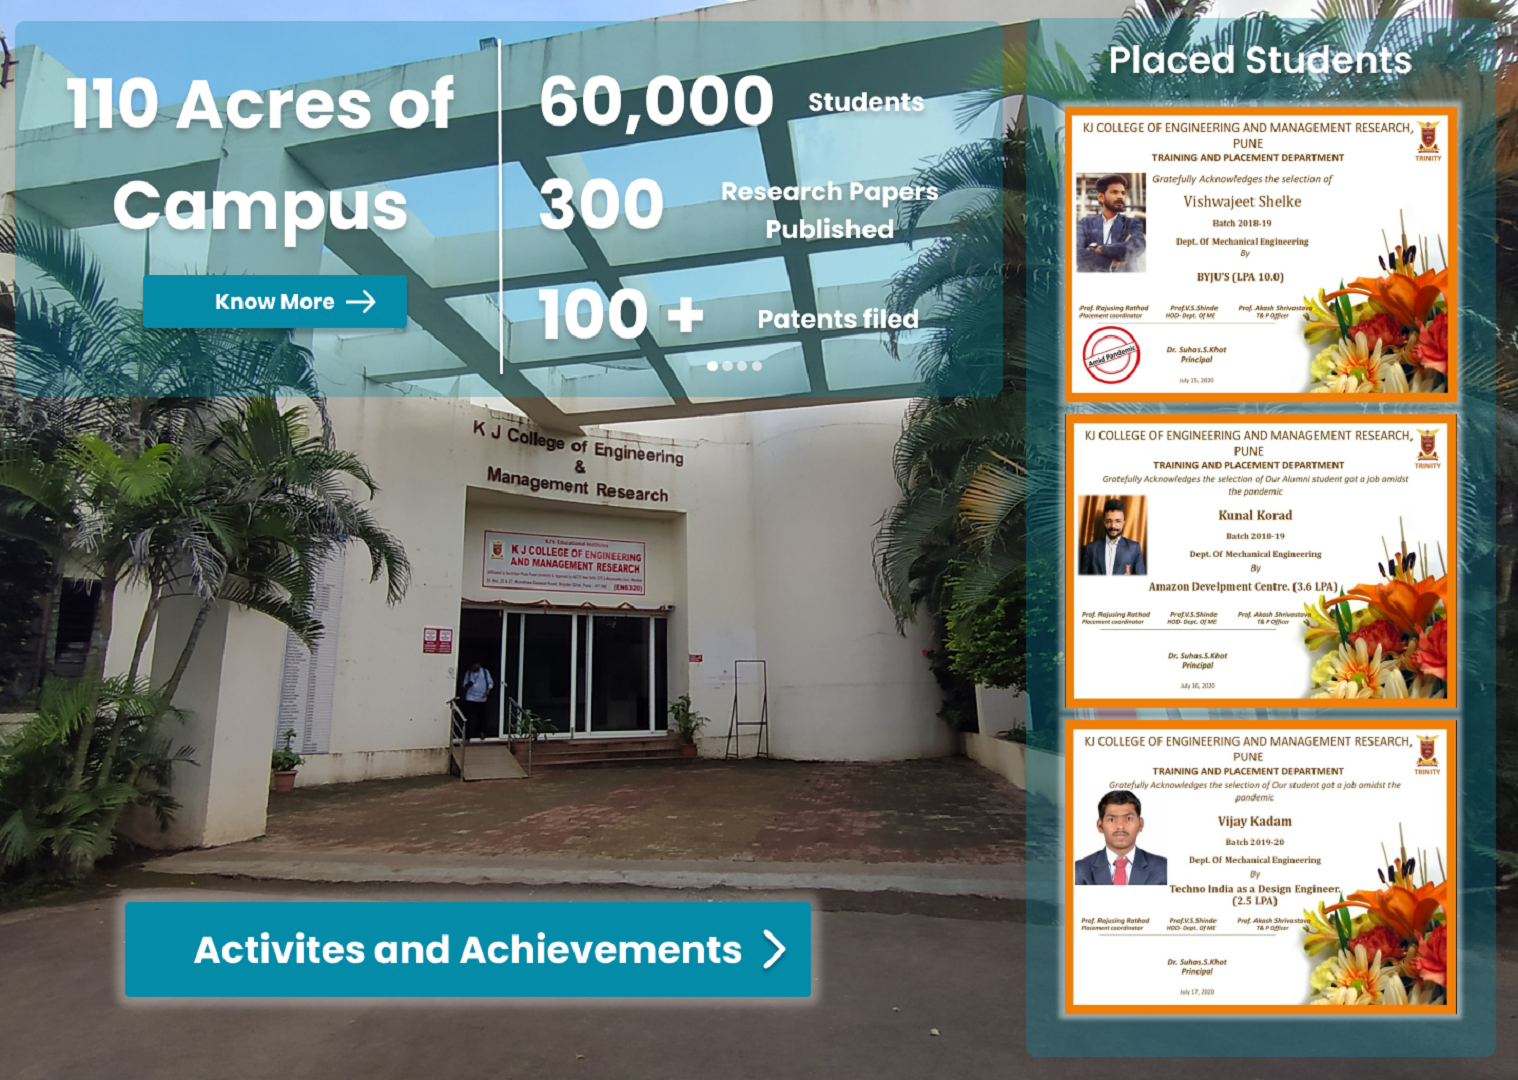
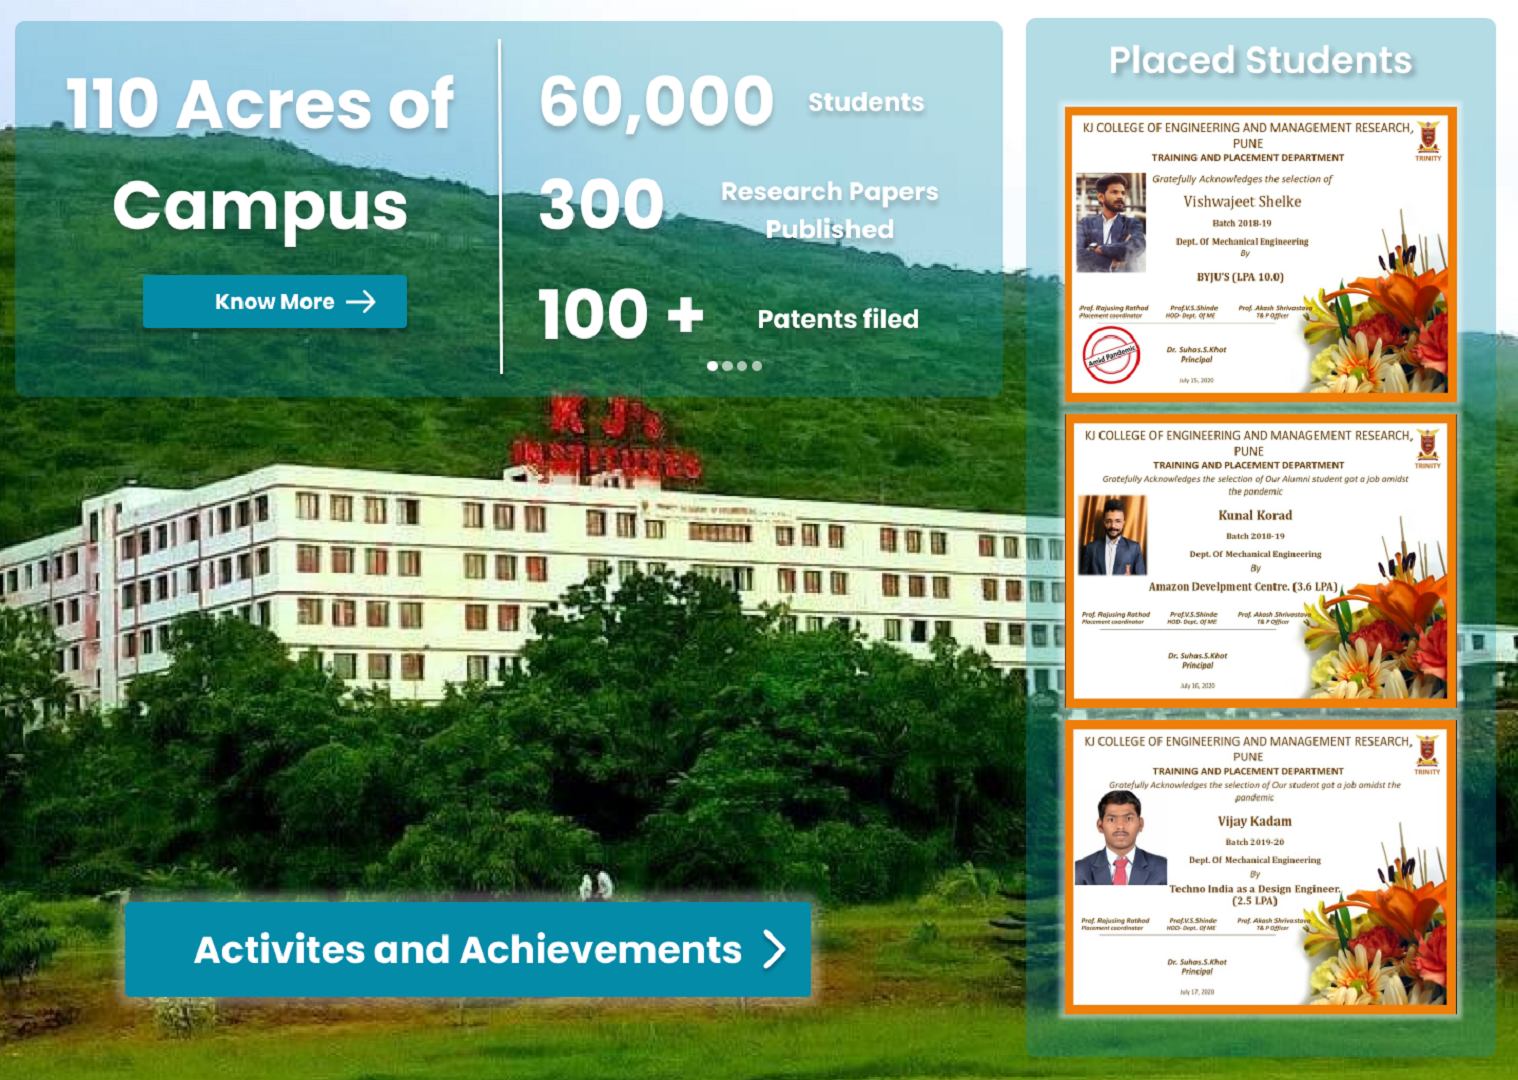
just temporary site

diff --git a/tempsite-1/index.html b/tempsite-1/index.html
@@ -1,0 +1,38 @@
+<!DOCTYPE html>
+<html>
+<head>
+	<title>KJCOEMR</title>
+	<style type="text/css">
+		body {
+			padding: 0;
+			margin: 0;
+		}
+		.page-1 {
+			min-height: 142vh;
+			background: url("landing.png");
+			background-repeat: none;
+		}
+		.page-2 {
+			height: 142vh;
+			background: url("intro.png");
+			background-repeat: none
+		}
+		.page-3 {
+			height: 142vh;
+			background: url("stats.png");
+			background-repeat: none
+		}
+		.page-4 {
+			height: 142vh;
+			background: url("footer.png");
+			background-repeat: none
+		}
+	</style>
+</head>
+<body>
+	<section class="page-1"></section>
+	<section class="page-2"></section>
+	<section class="page-3"></section>
+	<section class="page-4"></section>
+</body>
+</html>
